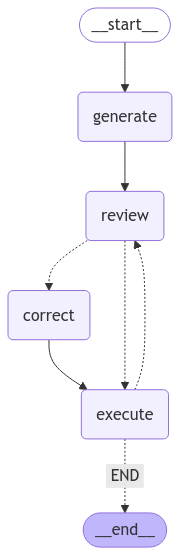
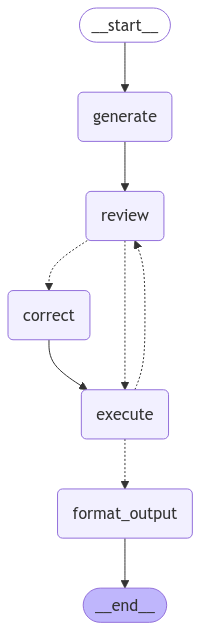
streamlit bug

diff --git a/sql_assistant/extractor/chat.py b/sql_assistant/extractor/chat.py
@@ -1,7 +1,6 @@
 import pandas as pd
 
 from pathlib import Path
-from dataclasses import dataclass
 from typing_extensions import TypedDict
 from typing import List, Optional, Literal, Tuple, Annotated
 from langchain_core.language_models import BaseChatModel
@@ -16,10 +15,8 @@ from sql_assistant.extractor.chain import SQLChains
 from sql_assistant.extractor.SQL import SQLQuery, QueryResult, QueryStatus
 from sql_assistant.config import DOWNLOAD_ENDPOINT, chat, coder
 from sql_assistant.utils import load_llm_chat
-from sql_assistant.extractor.download_file import Config
 
 
-@dataclass
 class AgentState(TypedDict):
     messages: Annotated[list[AnyMessage], add_messages]
     query: SQLQuery
@@ -54,8 +51,9 @@ class SQLAgent:
             You can download your results at: {DOWNLOAD_ENDPOINT}
 
             Please format a response that includes:
-            1. A note that the link will be available for download
-            2. The download link for the results
+            1. Information if the query execution was successful or not.
+            2. Information on row count and columns contained
+            3. The download link for the results
 
             Please format a response informing the user about the results and how to download them.""")
         ])
@@ -133,7 +131,7 @@ class SQLAgent:
         if not state.result.empty:
             print("SUCCESS")
             state.query.status = QueryStatus.COMPLETE
-            result.to_csv(Config.get_results_path(), index=False)
+            result.to_csv(DOWNLOAD_ENDPOINT, index=False)
             
             # Format output message with download info
             output_message = self.format_output.invoke({
@@ -157,18 +155,18 @@ class SQLAgent:
 
     def _format_output(self, state: AgentState) -> AgentState:
         """Format the final output message with download link."""
-        if state.query.status == QueryStatus.COMPLETE and hasattr(state, 'result'):
-            output_message = self.create_output_chain().invoke({
+        if state.query.status == QueryStatus.COMPLETE and state.result is not None:
+            output_message = self.create_output_chain(self.llm_chat).invoke({
                 "row_count": len(state.result),
                 "columns": ", ".join(state.result.columns),
                 "download_link": DOWNLOAD_ENDPOINT
             })
             state.messages.append(AIMessage(content=output_message))
+
+        elif state.query.status == QueryStatus.FAILED:
+            state.messages.append(AIMessage(content="Query execution failed. Please check if your query makes sense or try to reformulate it."))
+
         return state
-
-
-    def _should_continue(self, state: AgentState) -> bool:
-        return state.query.status != QueryStatus.COMPLETE and state.query.status != QueryStatus.FAILED
 
 
     def _build_graph(self) -> StateGraph:
@@ -199,7 +197,7 @@ class SQLAgent:
         return workflow.compile()
 
 
-    def run(self, user_request: str) -> Tuple[pd.DataFrame, List[BaseMessage]]:
+    def run(self, user_request: str) -> List[BaseMessage]:
         """
         Execute a SQL query based on the user request and return messages.
         Results will be available via the download endpoint.
@@ -208,14 +206,15 @@ class SQLAgent:
             messages=[HumanMessage(content=user_request)],
             query=SQLQuery(text="", status=QueryStatus.PENDING)
         )
-        
+        print(initial_state.messages)
+
         final_state = self.graph.invoke(initial_state)
-        return final_state.messages
+        return final_state['messages']
 
 
 if __name__ == "__main__":
     from sql_assistant.config import path_db
 
     agent = SQLAgent(db_path=path_db)
-    df, result = agent.run("How many items each customer has bought?")
+    result = agent.run("How many items each customer has bought?")
     print(result)

diff --git a/sql_assistant/extractor/serving.py b/sql_assistant/extractor/serving.py
@@ -1,0 +1,40 @@
+import streamlit as st
+from langchain_core.messages import AIMessage, HumanMessage
+
+from sql_assistant.extractor.chat import SQLAgent
+from sql_assistant.config import path_db
+
+
+st.set_page_config(page_title="SQL Extractor Assistant", page_icon="🤖")
+st.title("All things SQL 🤖")
+
+def prepare_agent(user_query):
+    agent = SQLAgent(db_path=path_db)
+    return agent.run(user_query)
+
+
+if "chat_history" not in st.session_state:
+    st.session_state.chat_history = [
+        AIMessage(
+            content="""Hello! I'm here to help you query and extract your files in an easy manner."""
+        ),
+    ]
+
+for message in st.session_state.chat_history:
+    if isinstance(message, AIMessage):
+        with st.chat_message("AI"):
+            st.write(message.content)
+    elif isinstance(message, HumanMessage):
+        with st.chat_message("Human"):
+            st.write(message.content)
+
+
+user_query = st.chat_input("Enter your query:")
+if user_query is not None and user_query != "":
+    st.session_state.chat_history.append(HumanMessage(content=user_query))
+
+    with st.chat_message("Human"):
+        st.markdown(user_query)
+
+    with st.chat_message("AI"):
+        resp = st.write_stream(prepare_agent(user_query))

diff --git a/sql_assistant/config.py b/sql_assistant/config.py
@@ -8,7 +8,7 @@ load_dotenv()
 chat = "microsoft/Phi-3.5-mini-instruct"
 coder = "microsoft/Phi-3-mini-4k-instruct"
 
-DOWNLOAD_ENDPOINT = "/data/query-results"
+DOWNLOAD_ENDPOINT = "/data/query-results/query_results.csv"
 
 
 def get_root_dir():

diff --git a/sql_assistant/extractor/improvements/download_file.py b/sql_assistant/extractor/improvements/download_file.py
@@ -8,7 +8,7 @@ from sql_assistant.config import DOWNLOAD_ENDPOINT
 
 
 class Config:
-    RESULTS_DIR = Path("query_results")
+    RESULTS_DIR = Path("query-results")
     
     @classmethod
     def ensure_results_dir(cls):
